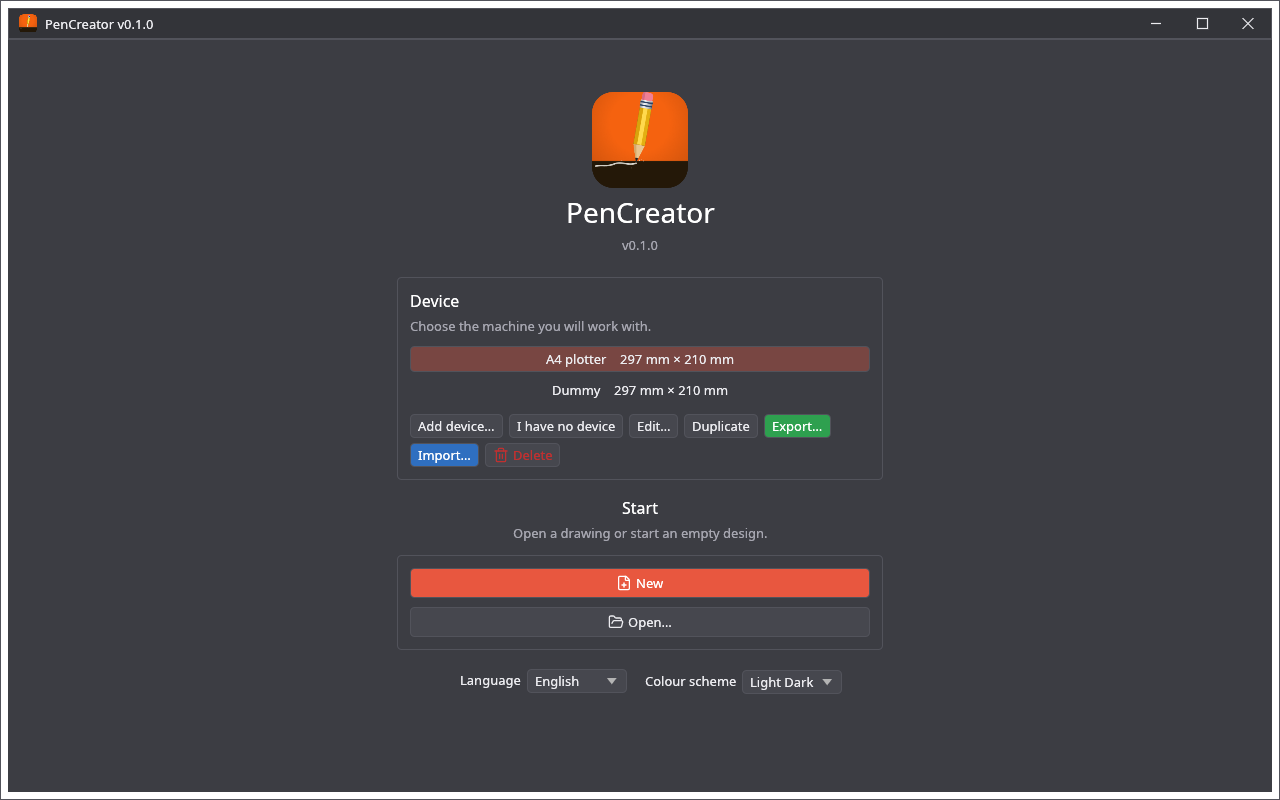
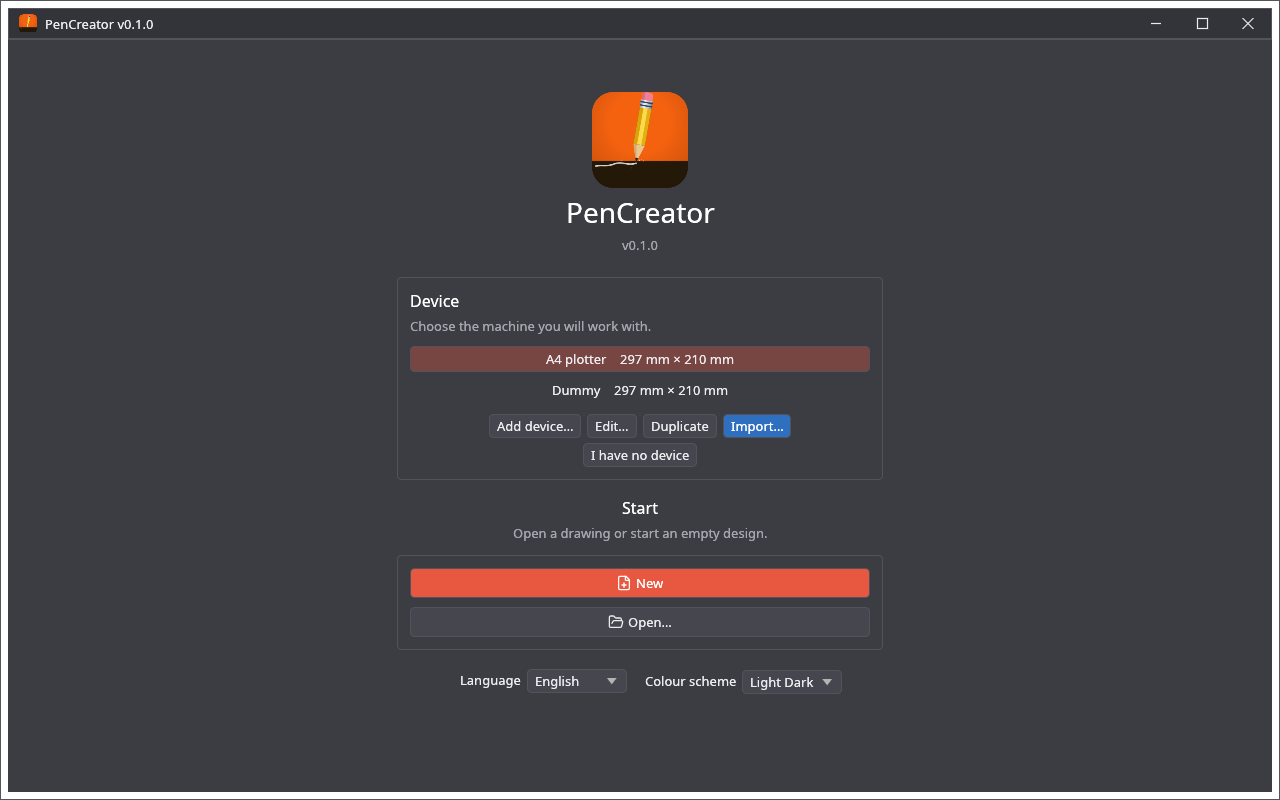
Start screen, device section: Add, Edit, Duplicate, Import in the first row and I have no device in the second, centred; Export and Delete move into the Edit window
Needs baseCreator v0.8.1 (widgets::centered_row).

Changed region(s): [[0.4688, 0.5, 0.6562, 0.5938], [0.3125, 0.5312, 0.4688, 0.5938]]

diff --git a/crates/pencreator/src/device_ui.rs b/crates/pencreator/src/device_ui.rs
@@ -10,7 +10,8 @@ use base_ui::editor::EditorHost;
 use base_ui::i18n::{tr, trf};
 use base_ui::theme;
 use base_ui::units_ui::{drag_len, fmt_len};
-use base_ui::window::{delete_button_enabled, import_button, popup, save_button_enabled};
+use base_ui::widgets::centered_row;
+use base_ui::window::{delete_button, import_button, popup, save_button_enabled};
 use eframe::egui::{self, Color32, RichText};
 
 #[derive(Clone, Copy, PartialEq, Eq, Debug)]
@@ -90,6 +91,7 @@ impl App {
     }
 
     pub(crate) fn start_edit_device(&mut self, idx: usize) {
+        self.confirm_delete = false;
         if let Some(d) = self.devices.get(idx) {
             self.dev_edit = Some(DeviceEdit { idx: Some(idx), draft: d.clone(), page: Page::General, error: String::new() });
         }
@@ -165,12 +167,9 @@ impl App {
         });
         ui.add_space(6.0);
         let has = !self.devices.is_empty();
-        ui.horizontal_wrapped(|ui| {
+        centered_row(ui, "device_buttons_1", |ui| {
             if ui.button(tr("Add device…")).clicked() {
                 self.start_add_device();
-            }
-            if ui.button(tr("I have no device")).on_hover_text(tr("Work on a project without a machine: a plain device called Dummy, with the default work area and speeds")).clicked() {
-                self.use_dummy_device();
             }
             if ui.add_enabled(has, egui::Button::new(tr("Edit…"))).clicked() {
                 self.start_edit_device(self.start_sel);
@@ -178,23 +177,13 @@ impl App {
             if ui.add_enabled(has, egui::Button::new(tr("Duplicate"))).clicked() {
                 self.duplicate_device(self.start_sel);
             }
-            if save_button_enabled(ui, has, &tr("Export…")).on_hover_text(tr("Save this device to a file")).clicked() {
-                self.export_device_dialog(self.start_sel);
-            }
             if import_button(ui, &tr("Import…")).on_hover_text(tr("Read a device from a file")).clicked() {
                 self.import_device_dialog();
             }
-            if self.confirm_delete && has {
-                if base_ui::window::delete_button(ui, &tr("Confirm delete")).clicked() {
-                    self.devices.remove(self.start_sel);
-                    self.confirm_delete = false;
-                    self.active = None;
-                }
-                if ui.button(tr("Cancel")).clicked() {
-                    self.confirm_delete = false;
-                }
-            } else if delete_button_enabled(ui, has, &tr("Delete")).clicked() {
-                self.confirm_delete = true;
+        });
+        centered_row(ui, "device_buttons_2", |ui| {
+            if ui.button(tr("I have no device")).on_hover_text(tr("Work on a project without a machine: a plain device called Dummy, with the default work area and speeds")).clicked() {
+                self.use_dummy_device();
             }
         });
     }
@@ -205,6 +194,10 @@ impl App {
         let mut open = true;
         let mut save = false;
         let mut cancel = false;
+        let mut export = false;
+        let mut ask_delete = false;
+        let mut delete = false;
+        let confirm = self.confirm_delete;
         let new = edit.idx.is_none();
         let title = if new { tr("Add a device") } else { tr("Device settings") };
         popup(ctx, "device_window", &title, [620.0, 540.0], &mut open, |ui| {
@@ -304,9 +297,42 @@ impl App {
                 if ui.button(tr("Cancel")).clicked() {
                     cancel = true;
                 }
+                if !new {
+                    ui.separator();
+                    if save_button_enabled(ui, true, &tr("Export…")).on_hover_text(tr("Save this device to a file")).clicked() {
+                        export = true;
+                    }
+                    if confirm {
+                        if delete_button(ui, &tr("Confirm delete")).clicked() {
+                            delete = true;
+                        }
+                    } else if delete_button(ui, &tr("Delete")).clicked() {
+                        ask_delete = true;
+                    }
+                }
             });
         });
+        if let Some(i) = edit.idx {
+            if export {
+                self.export_device_dialog(i);
+            }
+            if ask_delete {
+                self.confirm_delete = true;
+            }
+            if delete && i < self.devices.len() {
+                self.devices.remove(i);
+                self.confirm_delete = false;
+                self.active = match self.active {
+                    Some(a) if a == i => None,
+                    Some(a) if a > i => Some(a - 1),
+                    other => other,
+                };
+                self.start_sel = self.start_sel.min(self.devices.len().saturating_sub(1));
+                return;
+            }
+        }
         if cancel {
+            self.confirm_delete = false;
             open = false;
         }
         if save {
